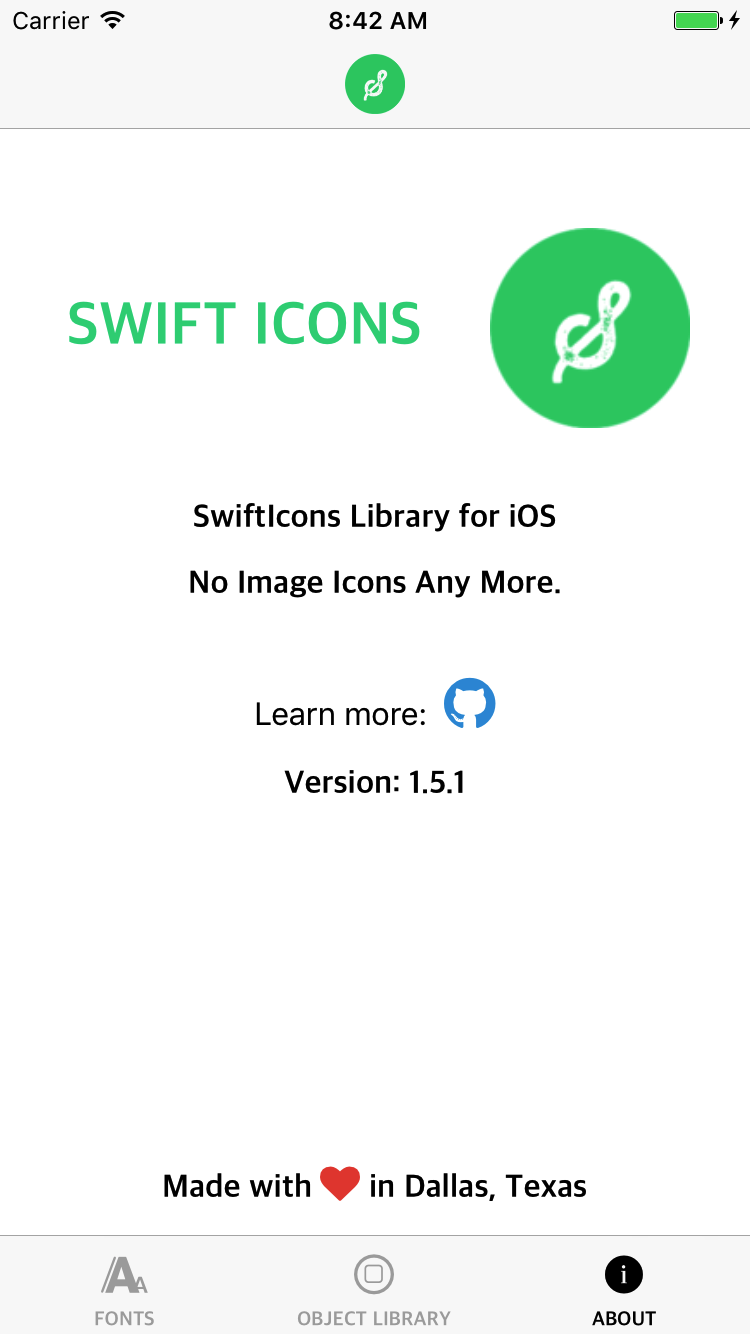
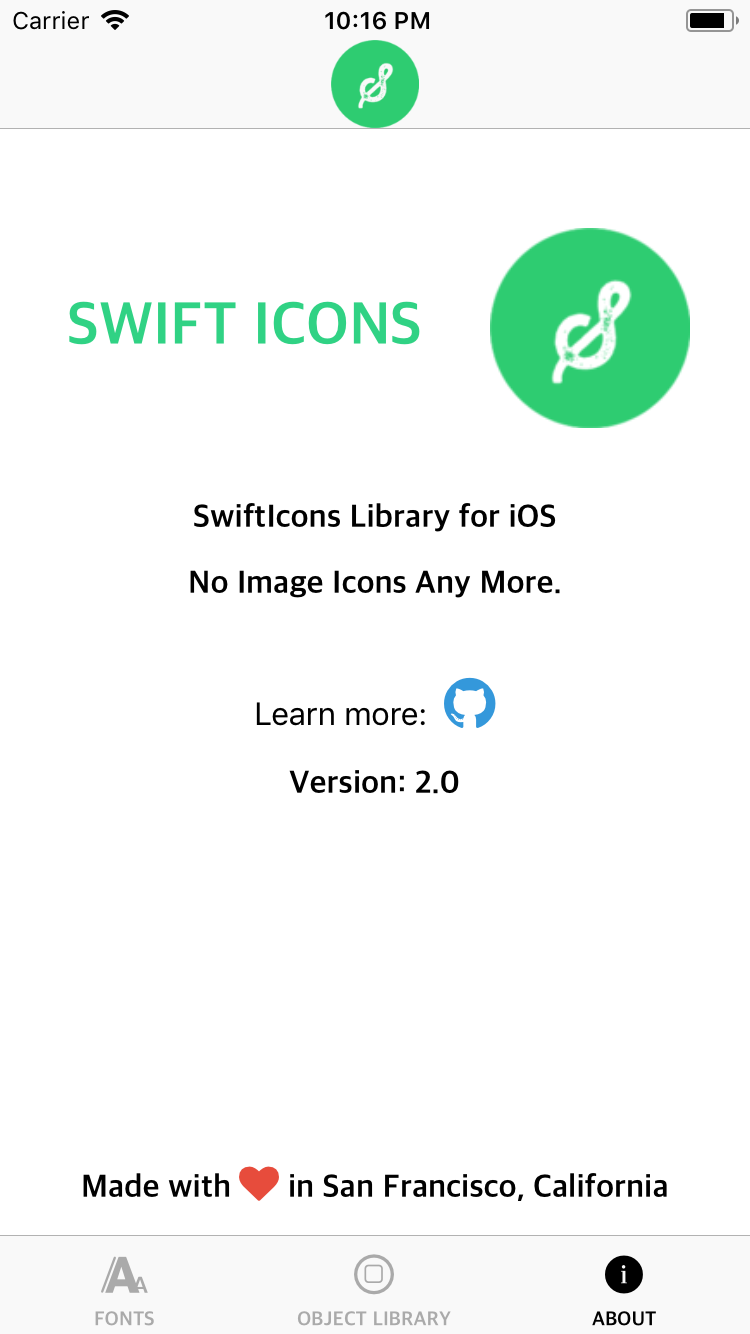
Release 2.0

diff --git a/SwiftIcons/AboutViewController.swift b/SwiftIcons/AboutViewController.swift
@@ -44,7 +44,7 @@ class AboutViewController: UIViewController {
 
         githubBtn.setIcon(prefixText: "Learn more:  ", icon: .fontAwesome(.github), iconColor: UIColor.init(hex: "3498db"), postfixText: "", forState: .normal, textSize: 16, iconSize: 30)
         
-        madeWith.setIcon(prefixText: "Made with ", icon: .fontAwesome(.heart), iconColor: UIColor.init(hex: "e74c3c"), postfixText: " in Dallas, Texas", size: 20, iconSize: 20)
+        madeWith.setIcon(prefixText: "Made with ", icon: .fontAwesome(.heart), iconColor: UIColor.init(hex: "e74c3c"), postfixText: " in San Francisco, California", size: 20, iconSize: 20)
     }
 
     override func didReceiveMemoryWarning() {

diff --git a/SwiftIcons/Extensions.swift b/SwiftIcons/Extensions.swift
@@ -29,7 +29,7 @@ public extension UIColor {
         if (cString.hasPrefix("#")) {
             cString = String(cString[cString.index(cString.startIndex, offsetBy: 1)...])
         }
-        if ((cString.characters.count) != 6) {
+        if ((cString.count) != 6) {
             cString = "808080"
         }
         var rgbValue:UInt32 = 0

diff --git a/README.md b/README.md
@@ -1,6 +1,6 @@
 [![SwiftIcons](https://github.com/ranesr/SwiftIcons/raw/master/resources/logo.png)]()
 
-[![CocoaPods](https://img.shields.io/cocoapods/v/SwiftIcons.svg)](http://cocoadocs.org/docsets/SwiftIcons) [![CocoaPods](https://img.shields.io/cocoapods/dm/SwiftIcons.svg)](http://cocoapods.org/pods/SwiftIcons) [![CocoaPods](https://img.shields.io/cocoapods/dw/SwiftIcons.svg)](http://cocoapods.org/pods/SwiftIcons) [![Platform](https://img.shields.io/cocoapods/p/SwiftIcons.svg)](http://cocoadocs.org/docsets/SwiftIcons) ![Swift](https://img.shields.io/badge/%20in-swift%203.0-orange.svg)
+[![CocoaPods](https://img.shields.io/cocoapods/v/SwiftIcons.svg)](http://cocoadocs.org/docsets/SwiftIcons) [![CocoaPods](https://img.shields.io/cocoapods/dm/SwiftIcons.svg)](http://cocoapods.org/pods/SwiftIcons) [![CocoaPods](https://img.shields.io/cocoapods/dw/SwiftIcons.svg)](http://cocoapods.org/pods/SwiftIcons) [![Platform](https://img.shields.io/cocoapods/p/SwiftIcons.svg)](http://cocoadocs.org/docsets/SwiftIcons) ![Swift](https://img.shields.io/badge/%20in-swift%204.0-orange.svg)
 
 [![Travis](https://img.shields.io/travis/ranesr/SwiftIcons.svg)](https://travis-ci.org/ranesr/SwiftIcons/)
 
@@ -68,7 +68,7 @@ Add the following lines to your `Podfile`:
 ```ruby
 target 'YourProject' do
     use_frameworks!
-    pod 'SwiftIcons', '~> 1.5.1'
+    pod 'SwiftIcons', '~> 2.0'
 end
 ```
 

diff --git a/CHANGELOG.md b/CHANGELOG.md
@@ -5,6 +5,12 @@ The format is based on [Keep a Changelog](http://keepachangelog.com/) and this p
 
 ## [Unreleased]
 
+## [2.0] - 2017-12-06
+
+### Changed
+
+- Support for Swift 4.0
+
 ## [1.5.1] - 2017-06-08
 
 ### Changed
@@ -66,7 +72,8 @@ The format is based on [Keep a Changelog](http://keepachangelog.com/) and this p
 - Initial Version of SwiftIcons
 - Support for Cocoapods
 
-[Unreleased]: https://github.com/ranesr/SwiftIcons/compare/1.5.1...master
+[Unreleased]: https://github.com/ranesr/SwiftIcons/compare/2.0...master
+[2.0]: https://github.com/ranesr/SwiftIcons/compare/1.5.1...2.0
 [1.5.1]: https://github.com/ranesr/SwiftIcons/compare/1.5...1.5.1
 [1.5]: https://github.com/ranesr/SwiftIcons/compare/1.4.1...1.5
 [1.4.1]: https://github.com/ranesr/SwiftIcons/compare/1.4...1.4.1
